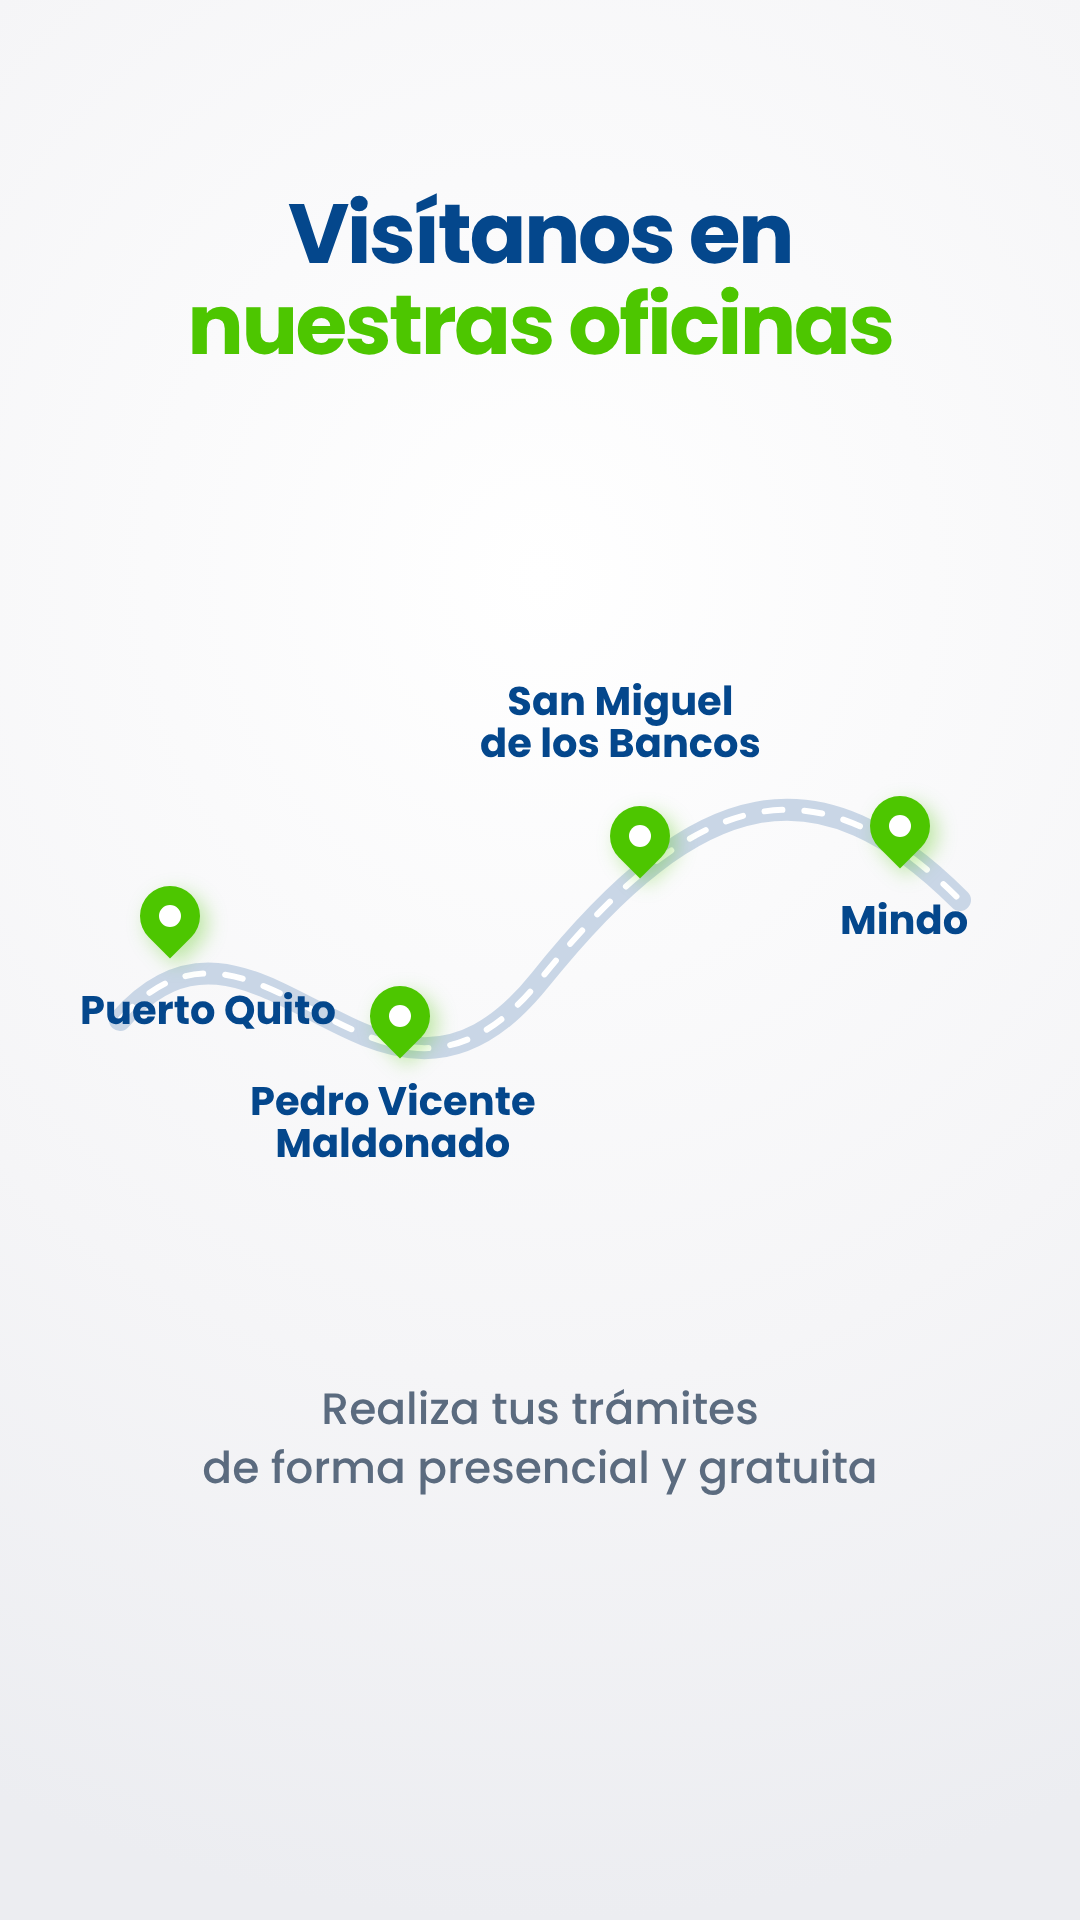
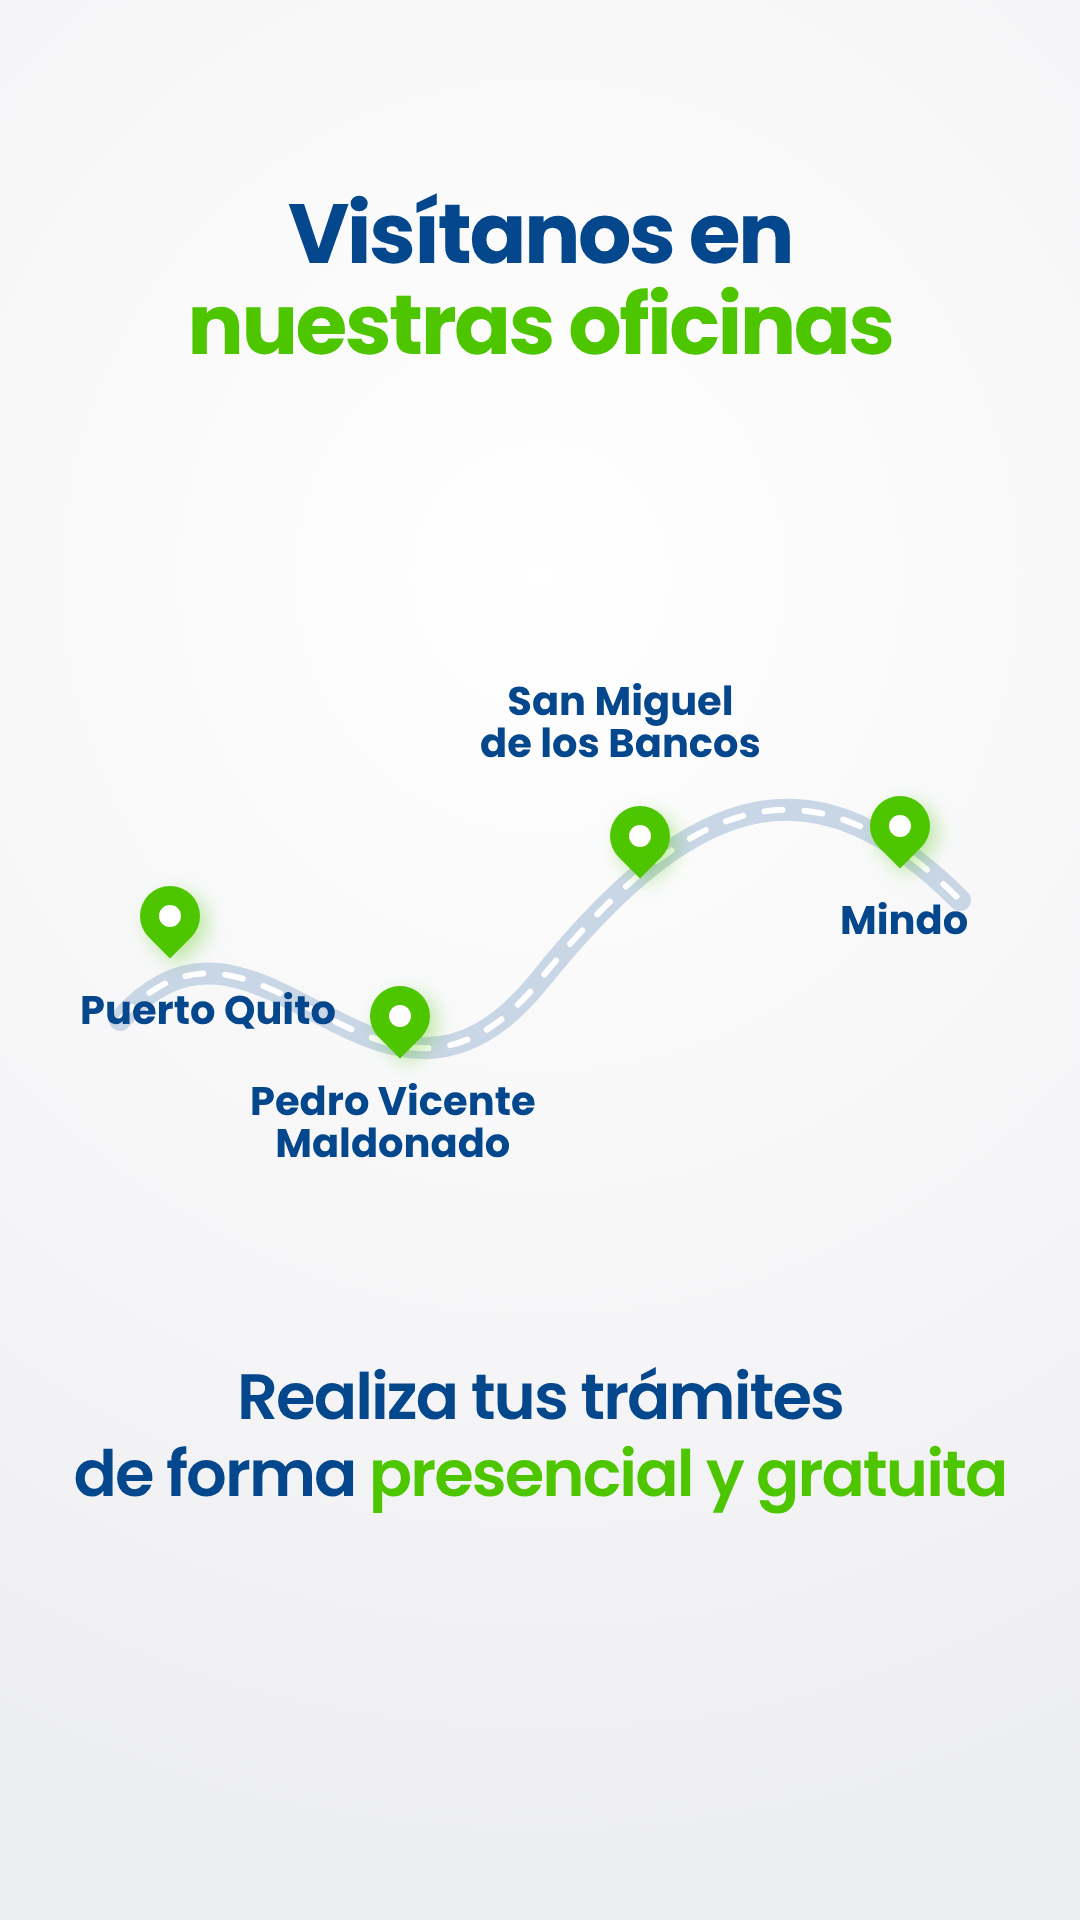
Alerta estafas: cierre con asesor acreditado y texto de oficinas más grande
Claude-Session: https://claude.ai/code/session_01B8NA3DEJhvt2LsQcoPZno4

Changed region(s): [[0.0611, 0.7188, 0.9472, 0.8125]]

diff --git a/videos/smb-alerta-estafas/compositions/frames/07-cierre.html b/videos/smb-alerta-estafas/compositions/frames/07-cierre.html
@@ -22,9 +22,30 @@
     </style>
     <div data-k="bg" class="clip" data-start="0" data-duration="4" data-track-index="0"></div>
     <div data-k="layer" class="clip" data-start="0" data-duration="4" data-track-index="1">
-      <img src="assets/logo-smb.png" style="position:absolute;left:190px;top:560px;width:700px;">
-      <p class="h" style="top:900px;font-size:86px;">Tus trámites son<br><span class="g">gratuitos</span></p>
-      <p class="h" style="top:1140px;font-size:70px;font-weight:600;">¡Somos tu gente!</p>
+      <svg style="position:absolute;left:190px;top:230px;" width="700" height="1060" viewBox="0 0 700 1060">
+        <ellipse cx="350" cy="1035" rx="250" ry="22" fill="rgba(4,71,140,.10)"/>
+        <path d="M110 1040 C110 820 200 700 350 700 C500 700 590 820 590 1040 Z" fill="#04478C"/>
+        <path d="M290 700 L350 860 L410 700 Z" fill="#FFFFFF"/>
+        <path d="M335 720 L350 760 L365 720 L350 708 Z" fill="#4DC600"/>
+        <path d="M350 760 L338 860 L350 880 L362 860 Z" fill="#4DC600"/>
+        <rect x="318" y="600" width="64" height="90" rx="20" fill="#E9B88F"/>
+        <circle cx="350" cy="470" r="150" fill="#F1C7A1"/>
+        <path d="M200 455 C200 330 270 290 350 290 C450 290 505 345 500 455 C470 400 420 370 350 372 C285 372 235 400 200 455 Z" fill="#2B2A33"/>
+        <circle cx="300" cy="480" r="12" fill="#2B2A33"/><circle cx="400" cy="480" r="12" fill="#2B2A33"/>
+        <path d="M300 545 Q350 590 400 545" fill="none" stroke="#2B2A33" stroke-width="10" stroke-linecap="round"/>
+        <circle cx="262" cy="530" r="18" fill="#F3A99A" opacity=".55"/><circle cx="438" cy="530" r="18" fill="#F3A99A" opacity=".55"/>
+        <path d="M300 705 L350 905 L400 705" fill="none" stroke="#4DC600" stroke-width="12" stroke-linejoin="round"/>
+        <g transform="translate(250,880)">
+          <rect x="0" y="0" width="200" height="150" rx="18" fill="#FFFFFF" stroke="#D9E2EC" stroke-width="3"/>
+          <rect x="0" y="0" width="200" height="40" rx="18" fill="#04478C"/><rect x="0" y="22" width="200" height="18" fill="#04478C"/>
+          <rect x="86" y="-14" width="28" height="26" rx="6" fill="#B9C6D6"/>
+          <rect x="16" y="54" width="56" height="70" rx="10" fill="#E8EEF5"/><circle cx="44" cy="80" r="14" fill="#B9C6D6"/><path d="M24 118 C26 100 62 100 64 118 Z" fill="#B9C6D6"/>
+          <rect x="84" y="60" width="98" height="12" rx="6" fill="#04478C"/><rect x="84" y="84" width="76" height="10" rx="5" fill="#B9C6D6"/><rect x="84" y="104" width="88" height="10" rx="5" fill="#B9C6D6"/>
+          <circle cx="178" cy="132" r="22" fill="#4DC600"/><path d="M168 132 L176 140 L190 124" fill="none" stroke="#fff" stroke-width="6" stroke-linecap="round" stroke-linejoin="round"/>
+        </g>
+      </svg>
+      <div style="position:absolute;left:520px;top:400px;padding:14px 26px;border-radius:22px;background:#fff;box-shadow:0 14px 30px rgba(4,71,140,.16);color:#04478C;font-size:30px;font-weight:700;line-height:1.2;">Asesor de Crédito<br><span style="color:#4DC600;font-weight:600;font-size:26px;">Coop. San Miguel de los Bancos</span></div>
+      <p class="h" style="top:1350px;font-size:104px;">Tus trámites son<br><span class="g">gratuitos</span></p>
     </div>
     <script src="assets/vendor/gsap.min.js"></script>
     <script>

diff --git a/videos/smb-alerta-estafas/compositions/frames/06-oficinas.html b/videos/smb-alerta-estafas/compositions/frames/06-oficinas.html
@@ -28,7 +28,7 @@
       <div class="pin" style="left:400px;top:1060px;"><div class="dot"></div><div class="lb" style="left:-150px;top:20px;text-align:center;line-height:1.05;">Pedro Vicente<br>Maldonado</div></div>
       <div class="pin" style="left:640px;top:880px;"><div class="dot"></div><div class="lb" style="left:-160px;top:-200px;text-align:center;line-height:1.05;">San Miguel<br>de los Bancos</div></div>
       <div class="pin" style="left:900px;top:870px;"><div class="dot"></div><div class="lb" style="left:-60px;top:20px;">Mindo</div></div>
-      <p class="sub" style="top:1380px;font-size:44px;line-height:1.35;">Realiza tus trámites<br>de forma presencial y gratuita</p>
+      <p class="h" style="top:1360px;font-size:64px;font-weight:600;line-height:1.2;">Realiza tus trámites<br>de forma <span class="g">presencial y gratuita</span></p>
     </div>
     <script src="assets/vendor/gsap.min.js"></script>
     <script>

diff --git a/videos/smb-alerta-estafas/STORYBOARD.md b/videos/smb-alerta-estafas/STORYBOARD.md
@@ -106,15 +106,15 @@ keyMessage: Si te pasa: no transfieras o deposites dinero, no compartas tus dato
 - persuasion: Proximity + trust
 - beat: confidence
 - blueprint: compose
-- on_screen: "Visítanos en nuestras oficinas" / "San Miguel de los Bancos" / "Pedro Vicente Maldonado" / "Puerto Quito" / "Mindo"
+- on_screen: "Visítanos en nuestras oficinas" / "San Miguel de los Bancos" / "Pedro Vicente Maldonado" / "Puerto Quito" / "Mindo" / "Realiza tus trámites de forma presencial y gratuita" (grande)
 
 narrativeRole: Nuestras oficinas.
 keyMessage: Para cualquier trámite, acércate a nuestras oficinas en San Miguel de los Bancos, Pedro Vicente Maldonado, Puerto Quito y Mindo.
 
 ## Frame 7 — Cierre
 
-- scene: Logo, «Tus trámites son gratuitos» y «¡Somos tu gente!».
-- voiceover: "Tus trámites son gratuitos. ¡Somos tu gente!"
+- scene: Ilustración de un asesor sonriente con la credencial de la cooperativa (etiqueta «Asesor de Crédito · Coop. San Miguel de los Bancos»), sin logo; texto grande «Tus trámites son gratuitos».
+- voiceover: "Recuerda: tus trámites son gratuitos."
 - duration: 4s
 - transition_in: crossfade
 - status: built
@@ -123,7 +123,7 @@ keyMessage: Para cualquier trámite, acércate a nuestras oficinas en San Miguel
 - persuasion: Brand recall
 - beat: belonging
 - blueprint: logo-assemble-lockup
-- on_screen: "Tus trámites son gratuitos" / "¡Somos tu gente!"
+- on_screen: "Tus trámites son gratuitos"
 
 narrativeRole: Cierre.
-keyMessage: Tus trámites son gratuitos. ¡Somos tu gente!
+keyMessage: Recuerda: tus trámites son gratuitos.

diff --git a/videos/smb-alerta-estafas/SCRIPT.md b/videos/smb-alerta-estafas/SCRIPT.md
@@ -31,4 +31,4 @@
 
 ## Line 7 — Cierre (Frame 7)
 
-    Tus trámites son gratuitos. ¡Somos tu gente!
+    Recuerda: tus trámites son gratuitos.
